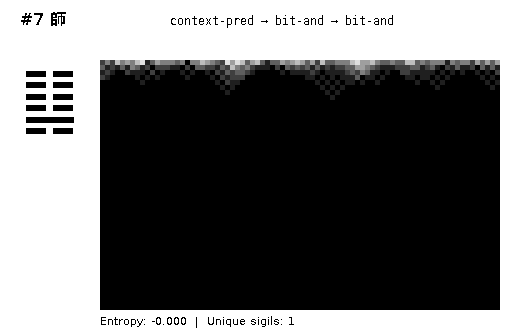
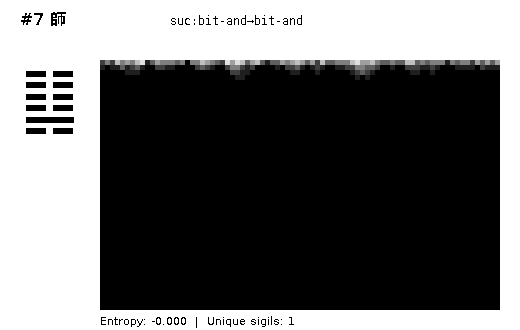
64 unique hexagram wirings with topology and NAND/NOR operations
- Add bit-nand and bit-nor to component registry and EDN definitions
- Hexagram mapping now uses 4×4×4 = 64 unique combinations:
  - Lines 1-2: topology (nei/suc/pre/slf) - which contexts feed where
  - Lines 3-4: core op (and/or/xor/nand)
  - Lines 5-6: output op (and/or/xor/nor)
- Save 巽-wind.edn (hexagram 57) to wiring-ladder as interesting pattern
- Regenerate test sheet with new diversity of behaviors

Changed region(s): [[0.1846, 0.1818, 0.9846, 0.303], [0.4308, 0.0303, 0.6154, 0.0909], [0.7077, 0.0606, 0.7692, 0.0909]]

diff --git a/reports/hexagram-wiring-sheet.md b/reports/hexagram-wiring-sheet.md
@@ -1,6 +1,6 @@
 # Hexagram Wiring Test Sheet
 
-*Generated: 2026-01-25T18:11:36.810716330*
+*Generated: 2026-01-25T18:32:52.602413448*
 
 All 64 I Ching hexagrams mapped to wiring diagrams and executed.
 
@@ -14,29 +14,29 @@ All 64 I Ching hexagrams mapped to wiring diagrams and executed.
 
 These hexagrams produce complex, information-rich patterns:
 
-![Hexagram 63](images/hex-63.png)
+![Hexagram 10](images/hex-10.png)
 
-![Hexagram 52](images/hex-52.png)
+![Hexagram 5](images/hex-05.png)
 
-![Hexagram 30](images/hex-30.png)
+![Hexagram 25](images/hex-25.png)
 
-![Hexagram 38](images/hex-38.png)
+![Hexagram 59](images/hex-59.png)
 
-![Hexagram 47](images/hex-47.png)
+![Hexagram 37](images/hex-37.png)
 
 ### Lowest Entropy (Most Ordered)
 
 These hexagrams collapse to uniform or simple patterns:
 
+![Hexagram 62](images/hex-62.png)
+
 ![Hexagram 7](images/hex-07.png)
 
 ![Hexagram 20](images/hex-20.png)
 
-![Hexagram 58](images/hex-58.png)
+![Hexagram 4](images/hex-04.png)
 
-![Hexagram 27](images/hex-27.png)
-
-![Hexagram 54](images/hex-54.png)
+![Hexagram 50](images/hex-50.png)
 
 ---
 
@@ -44,70 +44,70 @@ These hexagrams collapse to uniform or simple patterns:
 
 | # | Name | Lines | Formula | Entropy | Unique |
 |---|------|-------|---------|---------|--------|
-| 1 | 乾 | ⚊⚊⚊⚊⚊⚊ | `context-self → bit-and → bit-or` | 0.97 | 59 |
-| 2 | 坤 | ⚋⚋⚋⚋⚋⚋ | `context-self → bit-and → bit-and` | -0.00 | 1 |
-| 3 | 屯 | ⚋⚋⚊⚋⚊⚋ | `context-self → bit-xor → bit-xor` | 0.99 | 71 |
-| 4 | 蒙 | ⚋⚊⚋⚊⚋⚋ | `context-pred → bit-or → bit-and` | 0.99 | 72 |
-| 5 | 需 | ⚊⚊⚊⚋⚊⚋ | `context-self → bit-xor → bit-xor` | 0.99 | 71 |
-| 6 | 訟 | ⚋⚊⚋⚊⚊⚊ | `context-pred → bit-or → bit-or` | -0.00 | 1 |
-| 7 | 師 | ⚋⚊⚋⚋⚋⚋ | `context-pred → bit-and → bit-and` | -0.00 | 1 |
-| 8 | 比 | ⚋⚋⚋⚋⚊⚋ | `context-self → bit-and → bit-xor` | 0.98 | 63 |
-| 9 | 小畜 | ⚊⚊⚋⚊⚊⚊ | `context-self → bit-or → bit-or` | -0.00 | 1 |
-| 10 | 履 | ⚊⚊⚊⚋⚊⚊ | `context-self → bit-xor → bit-or` | 0.84 | 30 |
-| 11 | 泰 | ⚊⚊⚊⚋⚋⚋ | `context-self → bit-xor → bit-and` | 0.74 | 17 |
-| 12 | 否 | ⚋⚋⚋⚊⚊⚊ | `context-self → bit-or → bit-or` | -0.00 | 1 |
-| 13 | 同人 | ⚊⚋⚊⚊⚊⚊ | `context-succ → bit-and → bit-or` | 0.99 | 72 |
-| 14 | 大有 | ⚊⚊⚊⚊⚋⚊ | `context-self → bit-and → bit-or` | 0.97 | 59 |
-| 15 | 謙 | ⚋⚋⚋⚊⚋⚋ | `context-self → bit-or → bit-and` | 0.98 | 63 |
-| 16 | 豫 | ⚋⚋⚊⚋⚋⚋ | `context-self → bit-xor → bit-and` | 0.74 | 17 |
-| 17 | 隨 | ⚋⚋⚊⚋⚊⚊ | `context-self → bit-xor → bit-or` | 0.84 | 30 |
-| 18 | 蠱 | ⚊⚋⚋⚊⚊⚋ | `context-succ → bit-or → bit-xor` | 0.96 | 50 |
-| 19 | 臨 | ⚋⚋⚋⚋⚊⚊ | `context-self → bit-and → bit-or` | 0.97 | 59 |
-| 20 | 觀 | ⚊⚊⚋⚋⚋⚋ | `context-self → bit-and → bit-and` | -0.00 | 1 |
-| 21 | 噬嗑 | ⚊⚋⚊⚋⚋⚊ | `context-succ → bit-xor → bit-or` | -0.00 | 1 |
-| 22 | 賁 | ⚊⚋⚋⚊⚋⚊ | `context-succ → bit-or → bit-or` | -0.00 | 1 |
-| 23 | 剝 | ⚊⚋⚋⚋⚋⚋ | `context-succ → bit-and → bit-and` | -0.00 | 1 |
-| 24 | 復 | ⚋⚋⚋⚋⚋⚊ | `context-self → bit-and → bit-or` | 0.97 | 59 |
-| 25 | 無妄 | ⚊⚊⚊⚋⚋⚊ | `context-self → bit-xor → bit-or` | 0.84 | 30 |
-| 26 | 大畜 | ⚊⚋⚋⚊⚊⚊ | `context-succ → bit-or → bit-or` | -0.00 | 1 |
-| 27 | 頤 | ⚋⚋⚊⚊⚋⚋ | `context-self → bit-and → bit-and` | -0.00 | 1 |
-| 28 | 大過 | ⚋⚊⚊⚊⚊⚋ | `context-pred → bit-and → bit-xor` | 0.96 | 50 |
-| 29 | 坎 | ⚋⚊⚋⚋⚊⚋ | `context-pred → bit-and → bit-xor` | 0.96 | 50 |
-| 30 | 離 | ⚊⚋⚊⚊⚋⚊ | `context-succ → bit-and → bit-or` | 0.99 | 72 |
-| 31 | 咸 | ⚋⚊⚊⚊⚋⚋ | `context-pred → bit-and → bit-and` | -0.00 | 1 |
-| 32 | 恆：亨，無咎，利貞，利有攸往。 | ⚊⚊⚋⚋⚋⚊ | `context-self → bit-and → bit-or` | 0.97 | 59 |
-| 33 | 遯 | ⚊⚊⚊⚊⚋⚋ | `context-self → bit-and → bit-and` | -0.00 | 1 |
-| 34 | 大壯 | ⚋⚋⚊⚊⚊⚊ | `context-self → bit-and → bit-or` | 0.97 | 59 |
-| 35 | 晉 | ⚋⚋⚋⚊⚋⚊ | `context-self → bit-or → bit-or` | -0.00 | 1 |
-| 36 | 明夷 | ⚊⚋⚊⚋⚋⚋ | `context-succ → bit-xor → bit-and` | 0.95 | 49 |
-| 37 | 家人 | ⚊⚋⚊⚊⚊⚋ | `context-succ → bit-and → bit-xor` | 0.95 | 49 |
-| 38 | 睽 | ⚋⚊⚊⚊⚋⚊ | `context-pred → bit-and → bit-or` | 0.99 | 72 |
-| 39 | 蹇 | ⚊⚋⚋⚋⚊⚋ | `context-succ → bit-and → bit-xor` | 0.95 | 49 |
-| 40 | 解 | ⚋⚊⚋⚋⚋⚊ | `context-pred → bit-and → bit-or` | 0.99 | 72 |
-| 41 | 損 | ⚊⚋⚋⚋⚊⚊ | `context-succ → bit-and → bit-or` | 0.99 | 72 |
-| 42 | 益 | ⚋⚋⚊⚊⚊⚋ | `context-self → bit-and → bit-xor` | 0.98 | 63 |
-| 43 | 夬 | ⚋⚊⚊⚊⚊⚊ | `context-pred → bit-and → bit-or` | 0.99 | 72 |
-| 44 | 姤 | ⚊⚊⚊⚊⚊⚋ | `context-self → bit-and → bit-xor` | 0.98 | 63 |
-| 45 | 萃 | ⚋⚊⚊⚋⚋⚋ | `context-pred → bit-xor → bit-and` | 0.96 | 50 |
-| 46 | 升 | ⚋⚋⚋⚊⚊⚋ | `context-self → bit-or → bit-xor` | 0.99 | 65 |
-| 47 | 困 | ⚋⚊⚊⚋⚊⚋ | `context-pred → bit-xor → bit-xor` | 0.99 | 72 |
-| 48 | 井 | ⚊⚊⚋⚋⚊⚋ | `context-self → bit-and → bit-xor` | 0.98 | 63 |
-| 49 | 革 | ⚊⚋⚊⚋⚊⚊ | `context-succ → bit-xor → bit-or` | -0.00 | 1 |
-| 50 | 鼎 | ⚊⚊⚋⚊⚋⚊ | `context-self → bit-or → bit-or` | -0.00 | 1 |
-| 51 | 震 | ⚋⚋⚊⚋⚋⚊ | `context-self → bit-xor → bit-or` | 0.84 | 30 |
-| 52 | 艮 | ⚊⚋⚋⚊⚋⚋ | `context-succ → bit-or → bit-and` | 0.99 | 72 |
-| 53 | 漸 | ⚊⚊⚋⚊⚋⚋ | `context-self → bit-or → bit-and` | 0.98 | 63 |
-| 54 | 歸妹 | ⚋⚊⚊⚋⚋⚊ | `context-pred → bit-xor → bit-or` | -0.00 | 1 |
-| 55 | 豐 | ⚋⚋⚊⚊⚋⚊ | `context-self → bit-and → bit-or` | 0.97 | 59 |
-| 56 | 旅 | ⚊⚋⚊⚊⚋⚋ | `context-succ → bit-and → bit-and` | -0.00 | 1 |
-| 57 | 巽 | ⚊⚊⚋⚊⚊⚋ | `context-self → bit-or → bit-xor` | 0.99 | 65 |
-| 58 | 兌 | ⚋⚊⚊⚋⚊⚊ | `context-pred → bit-xor → bit-or` | -0.00 | 1 |
-| 59 | 渙 | ⚋⚊⚋⚊⚊⚋ | `context-pred → bit-or → bit-xor` | 0.95 | 49 |
-| 60 | 節 | ⚋⚊⚋⚋⚊⚊ | `context-pred → bit-and → bit-or` | 0.99 | 72 |
-| 61 | 中孚 | ⚊⚊⚋⚋⚊⚊ | `context-self → bit-and → bit-or` | 0.97 | 59 |
-| 62 | 小過 | ⚊⚋⚋⚋⚋⚊ | `context-succ → bit-and → bit-or` | 0.99 | 72 |
-| 63 | 既濟 | ⚊⚋⚊⚋⚊⚋ | `context-succ → bit-xor → bit-xor` | 0.99 | 72 |
-| 64 | 未濟 | ⚋⚊⚋⚊⚋⚊ | `context-pred → bit-or → bit-or` | -0.00 | 1 |
+| 1 | 乾 | ⚊⚊⚊⚊⚊⚊ | `slf:bit-nand→bit-nor` | 0.95 | 48 |
+| 2 | 坤 | ⚋⚋⚋⚋⚋⚋ | `nei:bit-and→bit-and` | -0.00 | 1 |
+| 3 | 屯 | ⚋⚋⚊⚋⚊⚋ | `nei:bit-xor→bit-xor` | 0.99 | 71 |
+| 4 | 蒙 | ⚋⚊⚋⚊⚋⚋ | `suc:bit-or→bit-and` | -0.00 | 1 |
+| 5 | 需 | ⚊⚊⚊⚋⚊⚋ | `slf:bit-xor→bit-xor` | 0.99 | 72 |
+| 6 | 訟 | ⚋⚊⚋⚊⚊⚊ | `suc:bit-or→bit-nor` | 0.93 | 41 |
+| 7 | 師 | ⚋⚊⚋⚋⚋⚋ | `suc:bit-and→bit-and` | -0.00 | 1 |
+| 8 | 比 | ⚋⚋⚋⚋⚊⚋ | `nei:bit-and→bit-xor` | 0.98 | 63 |
+| 9 | 小畜 | ⚊⚊⚋⚊⚊⚊ | `slf:bit-or→bit-nor` | 0.97 | 59 |
+| 10 | 履 | ⚊⚊⚊⚋⚊⚊ | `slf:bit-xor→bit-nor` | 0.99 | 72 |
+| 11 | 泰 | ⚊⚊⚊⚋⚋⚋ | `slf:bit-xor→bit-and` | -0.00 | 1 |
+| 12 | 否 | ⚋⚋⚋⚊⚊⚊ | `nei:bit-or→bit-nor` | 0.93 | 41 |
+| 13 | 同人 | ⚊⚋⚊⚊⚊⚊ | `pre:bit-nand→bit-nor` | -0.00 | 1 |
+| 14 | 大有 | ⚊⚊⚊⚊⚋⚊ | `slf:bit-nand→bit-or` | 0.95 | 48 |
+| 15 | 謙 | ⚋⚋⚋⚊⚋⚋ | `nei:bit-or→bit-and` | 0.98 | 63 |
+| 16 | 豫 | ⚋⚋⚊⚋⚋⚋ | `nei:bit-xor→bit-and` | 0.74 | 17 |
+| 17 | 隨 | ⚋⚋⚊⚋⚊⚊ | `nei:bit-xor→bit-nor` | 0.98 | 57 |
+| 18 | 蠱 | ⚊⚋⚋⚊⚊⚋ | `pre:bit-or→bit-xor` | 0.99 | 70 |
+| 19 | 臨 | ⚋⚋⚋⚋⚊⚊ | `nei:bit-and→bit-nor` | 0.97 | 57 |
+| 20 | 觀 | ⚊⚊⚋⚋⚋⚋ | `slf:bit-and→bit-and` | -0.00 | 1 |
+| 21 | 噬嗑 | ⚊⚋⚊⚋⚋⚊ | `pre:bit-xor→bit-or` | 0.82 | 32 |
+| 22 | 賁 | ⚊⚋⚋⚊⚋⚊ | `pre:bit-or→bit-or` | -0.00 | 1 |
+| 23 | 剝 | ⚊⚋⚋⚋⚋⚋ | `pre:bit-and→bit-and` | -0.00 | 1 |
+| 24 | 復 | ⚋⚋⚋⚋⚋⚊ | `nei:bit-and→bit-or` | 0.97 | 59 |
+| 25 | 無妄 | ⚊⚊⚊⚋⚋⚊ | `slf:bit-xor→bit-or` | 0.99 | 72 |
+| 26 | 大畜 | ⚊⚋⚋⚊⚊⚊ | `pre:bit-or→bit-nor` | 0.93 | 41 |
+| 27 | 頤 | ⚋⚋⚊⚊⚋⚋ | `nei:bit-nand→bit-and` | 0.98 | 63 |
+| 28 | 大過 | ⚋⚊⚊⚊⚊⚋ | `suc:bit-nand→bit-xor` | 0.99 | 67 |
+| 29 | 坎 | ⚋⚊⚋⚋⚊⚋ | `suc:bit-and→bit-xor` | 0.99 | 67 |
+| 30 | 離 | ⚊⚋⚊⚊⚋⚊ | `pre:bit-nand→bit-or` | 0.76 | 26 |
+| 31 | 咸 | ⚋⚊⚊⚊⚋⚋ | `suc:bit-nand→bit-and` | 0.98 | 63 |
+| 32 | 恆：亨，無咎，利貞，利有攸往。 | ⚊⚊⚋⚋⚋⚊ | `slf:bit-and→bit-or` | -0.00 | 1 |
+| 33 | 遯 | ⚊⚊⚊⚊⚋⚋ | `slf:bit-nand→bit-and` | 0.92 | 43 |
+| 34 | 大壯 | ⚋⚋⚊⚊⚊⚊ | `nei:bit-nand→bit-nor` | -0.00 | 1 |
+| 35 | 晉 | ⚋⚋⚋⚊⚋⚊ | `nei:bit-or→bit-or` | -0.00 | 1 |
+| 36 | 明夷 | ⚊⚋⚊⚋⚋⚋ | `pre:bit-xor→bit-and` | -0.00 | 1 |
+| 37 | 家人 | ⚊⚋⚊⚊⚊⚋ | `pre:bit-nand→bit-xor` | 0.99 | 70 |
+| 38 | 睽 | ⚋⚊⚊⚊⚋⚊ | `suc:bit-nand→bit-or` | 0.81 | 25 |
+| 39 | 蹇 | ⚊⚋⚋⚋⚊⚋ | `pre:bit-and→bit-xor` | 0.99 | 69 |
+| 40 | 解 | ⚋⚊⚋⚋⚋⚊ | `suc:bit-and→bit-or` | -0.00 | 1 |
+| 41 | 損 | ⚊⚋⚋⚋⚊⚊ | `pre:bit-and→bit-nor` | 0.97 | 54 |
+| 42 | 益 | ⚋⚋⚊⚊⚊⚋ | `nei:bit-nand→bit-xor` | 0.98 | 60 |
+| 43 | 夬 | ⚋⚊⚊⚊⚊⚊ | `suc:bit-nand→bit-nor` | -0.00 | 1 |
+| 44 | 姤 | ⚊⚊⚊⚊⚊⚋ | `slf:bit-nand→bit-xor` | 0.99 | 70 |
+| 45 | 萃 | ⚋⚊⚊⚋⚋⚋ | `suc:bit-xor→bit-and` | -0.00 | 1 |
+| 46 | 升 | ⚋⚋⚋⚊⚊⚋ | `nei:bit-or→bit-xor` | 0.99 | 65 |
+| 47 | 困 | ⚋⚊⚊⚋⚊⚋ | `suc:bit-xor→bit-xor` | 0.99 | 71 |
+| 48 | 井 | ⚊⚊⚋⚋⚊⚋ | `slf:bit-and→bit-xor` | 0.99 | 70 |
+| 49 | 革 | ⚊⚋⚊⚋⚊⚊ | `pre:bit-xor→bit-nor` | 0.95 | 44 |
+| 50 | 鼎 | ⚊⚊⚋⚊⚋⚊ | `slf:bit-or→bit-or` | -0.00 | 1 |
+| 51 | 震 | ⚋⚋⚊⚋⚋⚊ | `nei:bit-xor→bit-or` | 0.84 | 30 |
+| 52 | 艮 | ⚊⚋⚋⚊⚋⚋ | `pre:bit-or→bit-and` | -0.00 | 1 |
+| 53 | 漸 | ⚊⚊⚋⚊⚋⚋ | `slf:bit-or→bit-and` | -0.00 | 1 |
+| 54 | 歸妹 | ⚋⚊⚊⚋⚋⚊ | `suc:bit-xor→bit-or` | 0.86 | 34 |
+| 55 | 豐 | ⚋⚋⚊⚊⚋⚊ | `nei:bit-nand→bit-or` | 0.73 | 22 |
+| 56 | 旅 | ⚊⚋⚊⚊⚋⚋ | `pre:bit-nand→bit-and` | 0.99 | 69 |
+| 57 | 巽 | ⚊⚊⚋⚊⚊⚋ | `slf:bit-or→bit-xor` | 0.99 | 70 |
+| 58 | 兌 | ⚋⚊⚊⚋⚊⚊ | `suc:bit-xor→bit-nor` | 0.97 | 55 |
+| 59 | 渙 | ⚋⚊⚋⚊⚊⚋ | `suc:bit-or→bit-xor` | 0.99 | 71 |
+| 60 | 節 | ⚋⚊⚋⚋⚊⚊ | `suc:bit-and→bit-nor` | 0.97 | 48 |
+| 61 | 中孚 | ⚊⚊⚋⚋⚊⚊ | `slf:bit-and→bit-nor` | 0.97 | 59 |
+| 62 | 小過 | ⚊⚋⚋⚋⚋⚊ | `pre:bit-and→bit-or` | -0.00 | 1 |
+| 63 | 既濟 | ⚊⚋⚊⚋⚊⚋ | `pre:bit-xor→bit-xor` | 0.99 | 71 |
+| 64 | 未濟 | ⚋⚊⚋⚊⚋⚊ | `suc:bit-or→bit-or` | -0.00 | 1 |
 
 ## Methodology
 
